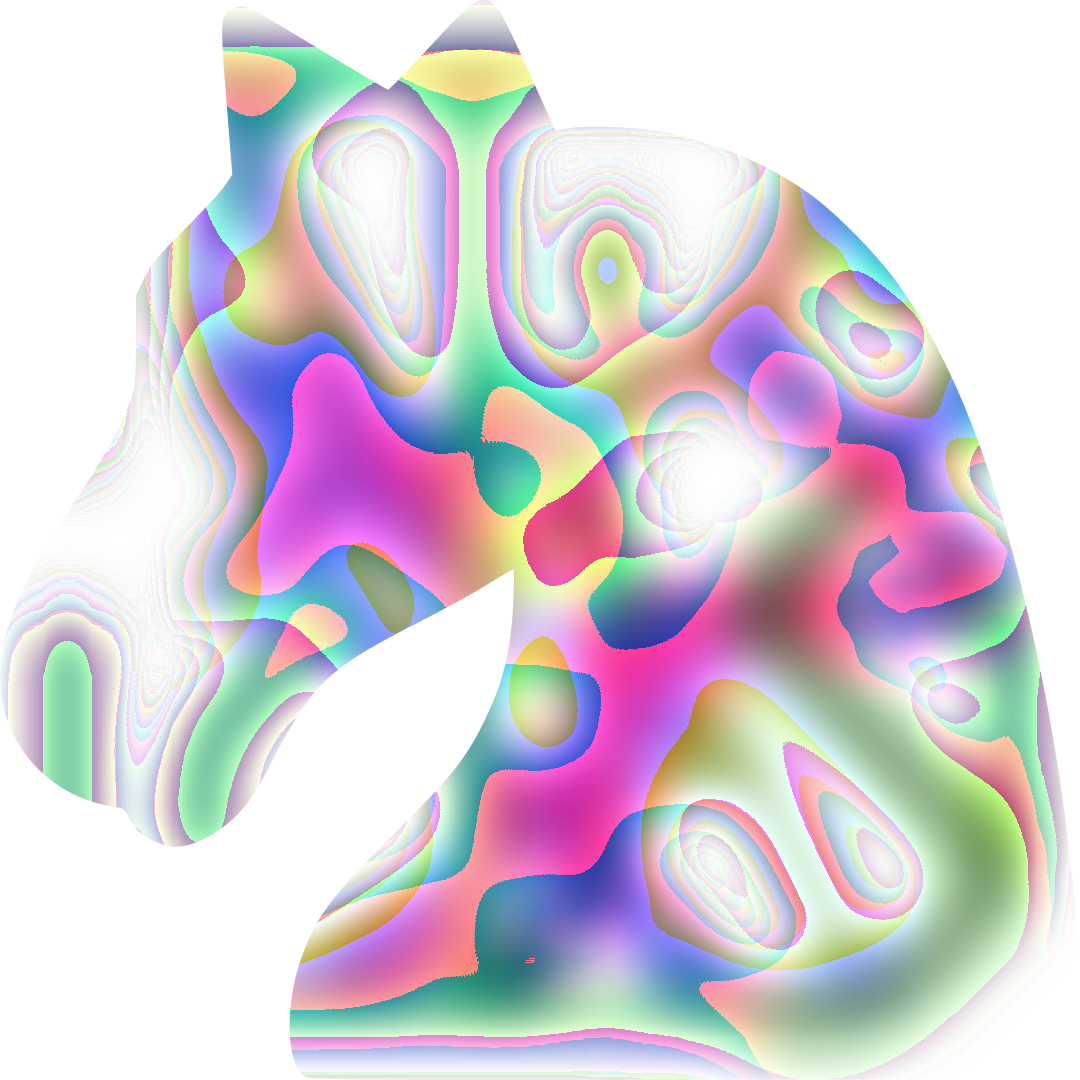
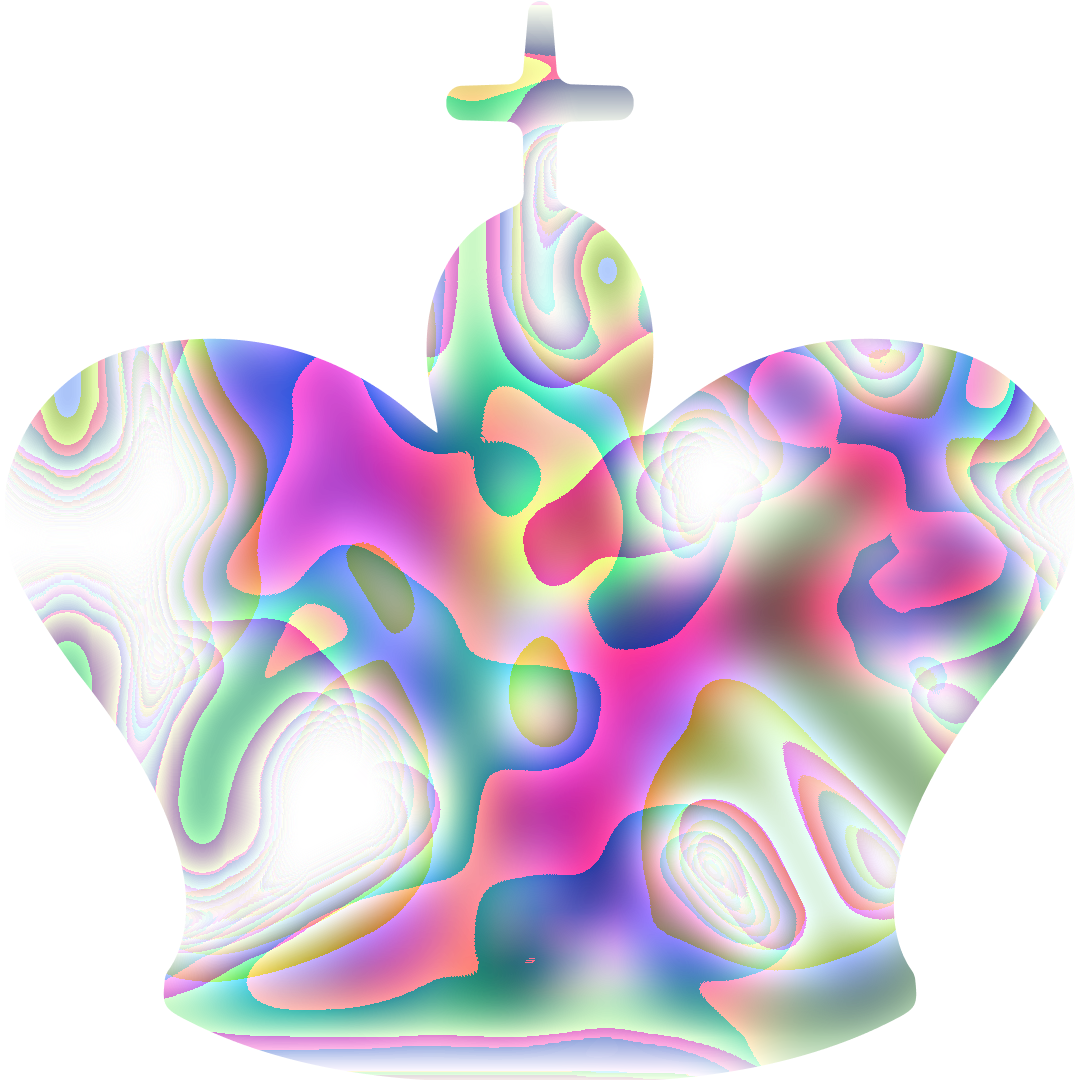
done

diff --git a/index.js b/index.js
@@ -49,7 +49,11 @@ scheme = {
 };
 
 const main = async () => {
+	const chess = new Chess();
 	const pgn = `1.e4 Nf6 2.e5 Nd5 3.d4 d6 4.Nf3 g6 5.Bc4 Nb6 6.Bb3 Bg7 7.Qe2 Nc6 8.O-O O-O 9.h3 a5 10.a4 dxe5 11.dxe5 Nd4 12.Nxd4 Qxd4 13.Re1 e6 14.Nd2 Nd5 15.Nf3 Qc5 16.Qe4 Qb4 17.Bc4 Nb6 18.b3 Nxc4 19.bxc4 Re8 20.Rd1 Qc5 21.Qh4 b6 22.Be3 Qc6 23.Bh6 Bh8 24.Rd8 Bb7 25.Rad1 Bg7 26.R8d7 Rf8 27.Bxg7 Kxg7 28.R1d4 Rae8 29.Qf6+ Kg8 30.h4 h5 31.Kh2 Rc8 32.Kg3 Rce8 33.Kf4 Bc8 34.Kg5 1-0`;
+	chess.load_pgn(pgn);
+	let ph = chess.history({ verbose: true });
+	const lmPiece = ph[ph.length - 1].piece;
 
 	const progressionLayerBuffer = await getBlurredProgression(pgn);
 	saveImageFromBuffer(progressionLayerBuffer, "progressionLayer");
@@ -76,7 +80,7 @@ const main = async () => {
 			console.log(err);
 		});
 
-	loadImage("./inputs/knight-bg.png")
+	loadImage(`./inputs/${lmPiece}_bg.png`)
 		.then(async (mask) => {
 			await frame2Ctx.drawImage(mask, 0, 0);
 			// saveImageFromCanvas(frame2, "mask");
@@ -119,7 +123,7 @@ const main = async () => {
 		// saveImageFromCanvas(frame, "textAdded");
 	});
 
-	loadImage("./inputs/knight-bg.png")
+	loadImage(`./inputs/${lmPiece}_bg.png`)
 		.then(async (knightbg) => {
 			await frameCtx.drawImage(knightbg, 263, 263, 780, 780);
 			// saveImageFromCanvas(frame, "withk");
@@ -128,7 +132,7 @@ const main = async () => {
 			console.log(err);
 		});
 
-	loadImage("./output/pieceMask.png")
+	loadImage(`./output/pieceMask.png`)
 		.then(async (knight) => {
 			await frameCtx.drawImage(knight, 263, 263, 780, 780);
 			// saveImageFromCanvas(frame, "withk");
@@ -137,10 +141,10 @@ const main = async () => {
 			console.log(err);
 		});
 
-	loadImage("./inputs/knight-fg.png")
+	loadImage(`./inputs/${lmPiece}_fg.png`)
 		.then(async (knightfg) => {
 			await frameCtx.drawImage(knightfg, 263, 263, 780, 780);
-			saveImageFromCanvas(frame, "finalNFT");
+			saveImageFromCanvas(frame, "NFT");
 		})
 		.catch((err) => {
 			console.log(err);
